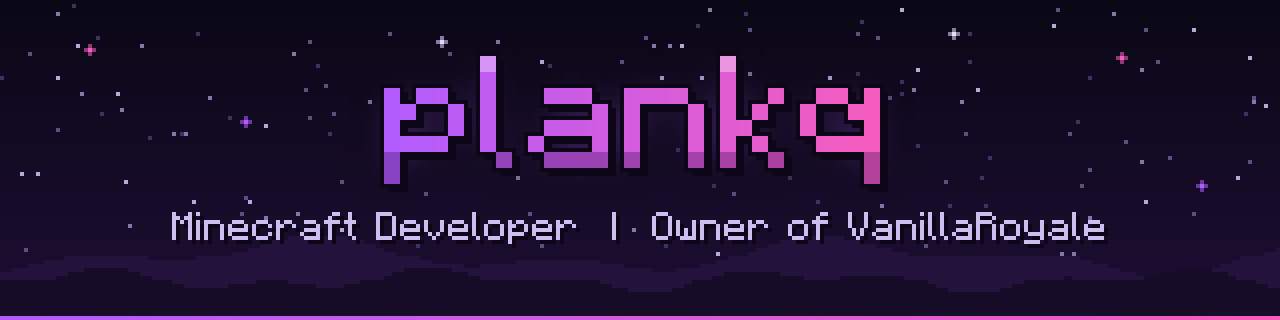
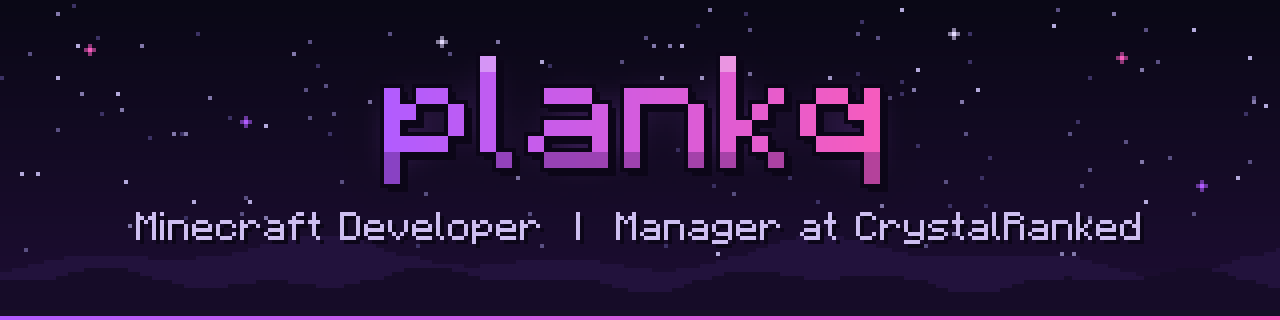
Now manager at CrystalRanked

Changed region(s): [[0.0938, 0.6562, 0.9062, 0.7812]]

diff --git a/README.md b/README.md
@@ -5,13 +5,13 @@
 > Minecraft developer focused on building complete server experiences: custom plugins and minigames, resource packs and HUD shaders, web panels for server management, and Discord bots.
 
 > [!NOTE]
-> **Currently:** Owner of **[VanillaRoyale](https://discord.gg/vanillaroyale)**
+> **Currently:** Manager at **CrystalRanked**
 
 ### Previously
 
+- **Owner** at VanillaRoyale
 - **Owner** at MCRoyale
 - **Admin** at Aurora Client
-- **General Manager** at CrystalRanked
 - **Media Management** at VanillaChaos
 
 ### Tech stack
